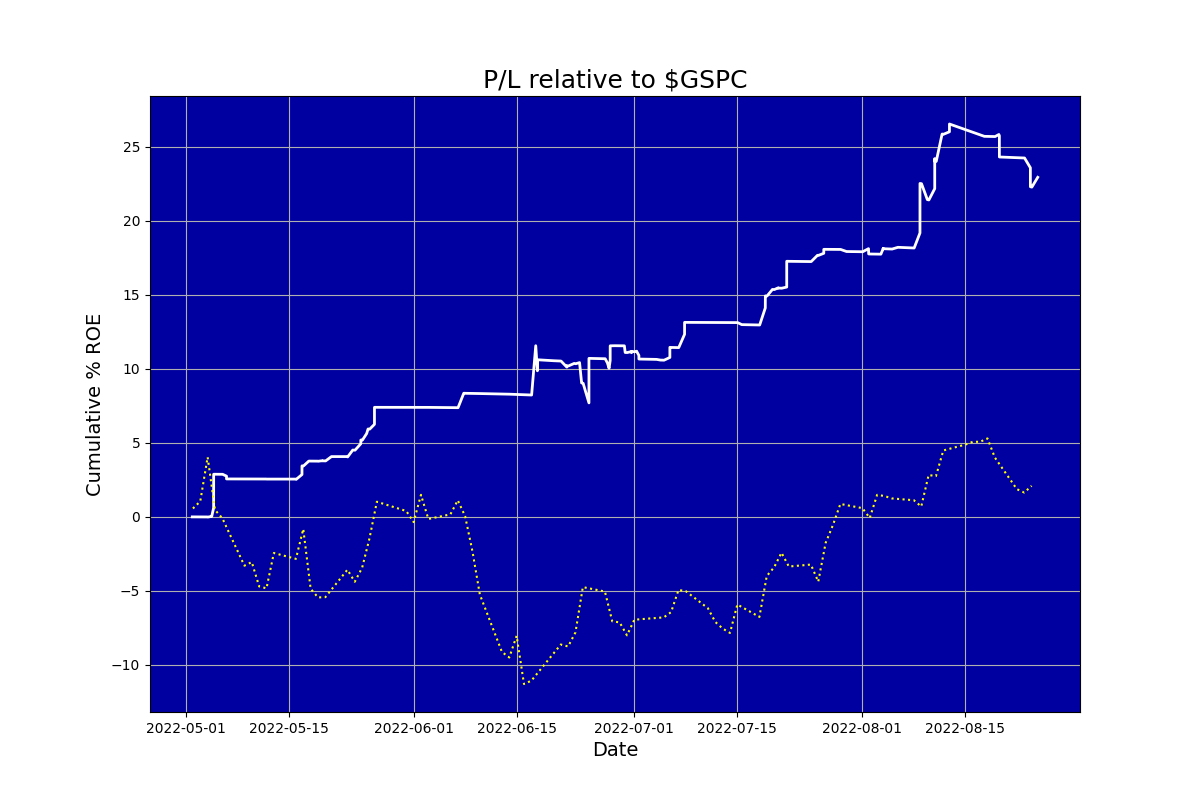
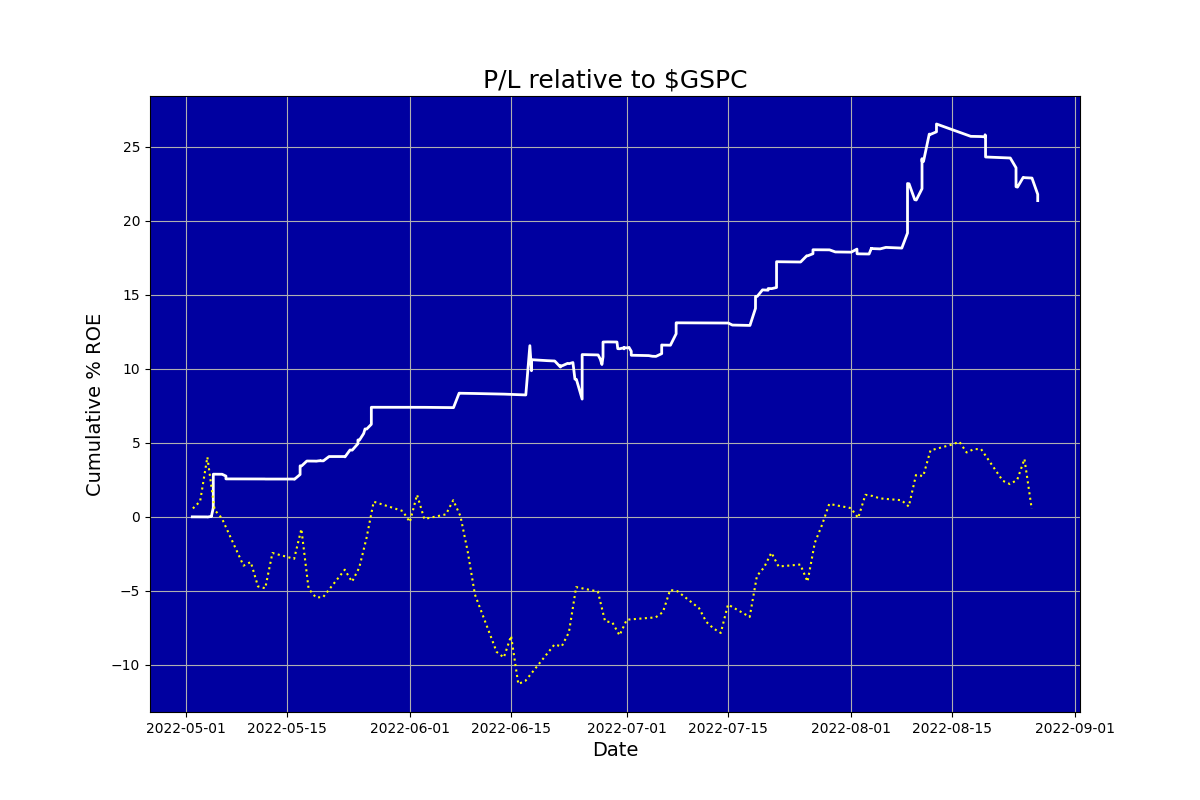
Updated

diff --git a/ig_report.html b/ig_report.html
@@ -1,1 +1,1 @@
-<html><body><center><h1>Auriel (never knowingly overbought)</h1></center><table cols=2><tr><td><img src=ig_pl.png></td><td><table cols=2><tr><td colspan=2><b><br>Snapshot</b></td></tr><tr><td>Last updated:&nbsp;&nbsp;&nbsp;</td><td>2022-08-24 16:01</td></tr><tr><td>Funds:&nbsp;&nbsp;&nbsp;</td><td>14407.98</td></tr><tr><td>Margin:&nbsp;&nbsp;&nbsp;</td><td>0.38</td></tr><tr><td>Cushion:&nbsp;&nbsp;&nbsp;</td><td>-1455.21</td></tr><tr><td>Last closed trade:&nbsp;&nbsp;&nbsp;</td><td>2022-08-24</td></tr><tr><td colspan=2><b><br>Positions</b></td></tr><tr><td>Mean days to new high:&nbsp;&nbsp;&nbsp;</td><td>2.04</td></tr><tr><td colspan=2><b><br>Trades</b></td></tr><tr><td>Num trades:&nbsp;&nbsp;&nbsp;</td><td>96</td></tr><tr><td>Pct winners:&nbsp;&nbsp;&nbsp;</td><td>67.71</td></tr><tr><td>Pct beating benchmark:&nbsp;&nbsp;&nbsp;</td><td>64.21</td></tr><tr><td>Pct profitable months:&nbsp;&nbsp;&nbsp;</td><td>100.00</td></tr><tr><td colspan=2><b><br>Performance</b></td></tr><tr><td>Pct median monthly ROE:&nbsp;&nbsp;&nbsp;</td><td>5.99</td></tr><tr><td>Pct annualised ROE:&nbsp;&nbsp;&nbsp;</td><td>136.31</td></tr><tr><td colspan=2><b><br>Risk</b></td></tr><tr><td>Volatility pct:&nbsp;&nbsp;&nbsp;</td><td>19.10</td></tr><tr><td>Benchmark volatility pct:&nbsp;&nbsp;&nbsp;</td><td>25.03</td></tr><tr><td>Sharpe ratio:&nbsp;&nbsp;&nbsp;</td><td>7.06</td></tr><tr><td>Calmar ratio:&nbsp;&nbsp;&nbsp;</td><td>34.32</td></tr><tr><td>Worst drawdown pct:&nbsp;&nbsp;&nbsp;</td><td>-0.04</td></tr><tr><td>Recovery days from worst drawdown:&nbsp;&nbsp;&nbsp;</td><td>9999.00</td></tr><tr><td>Beat benchmark +ve periods pct:&nbsp;&nbsp;&nbsp;</td><td>0.80</td></tr><tr><td>Beat benchmark -ve periods pct:&nbsp;&nbsp;&nbsp;</td><td>0.99</td></tr><tr><td>Correlation with benchmark:&nbsp;&nbsp;&nbsp;</td><td>0.13</td></tr></table></td></tr></table></body></html>
+<html><body><center><h1>Auriel (never knowingly overbought)</h1></center><table cols=2><tr><td><img src=ig_pl.png></td><td><table cols=2><tr><td colspan=2><b><br>Snapshot</b></td></tr><tr><td>Last updated:&nbsp;&nbsp;&nbsp;</td><td>2022-08-26 16:09</td></tr><tr><td>Funds:&nbsp;&nbsp;&nbsp;</td><td>14175.00</td></tr><tr><td>Margin:&nbsp;&nbsp;&nbsp;</td><td>0.29</td></tr><tr><td>Cushion:&nbsp;&nbsp;&nbsp;</td><td>-1595.00</td></tr><tr><td>Last closed trade:&nbsp;&nbsp;&nbsp;</td><td>2022-08-26</td></tr><tr><td colspan=2><b><br>Positions</b></td></tr><tr><td>Mean days to new high:&nbsp;&nbsp;&nbsp;</td><td>2.21</td></tr><tr><td colspan=2><b><br>Trades</b></td></tr><tr><td>Num trades:&nbsp;&nbsp;&nbsp;</td><td>98</td></tr><tr><td>Pct winners:&nbsp;&nbsp;&nbsp;</td><td>66.33</td></tr><tr><td>Pct beating benchmark:&nbsp;&nbsp;&nbsp;</td><td>62.89</td></tr><tr><td>Pct profitable months:&nbsp;&nbsp;&nbsp;</td><td>100.00</td></tr><tr><td colspan=2><b><br>Performance</b></td></tr><tr><td>Pct median monthly ROE:&nbsp;&nbsp;&nbsp;</td><td>5.40</td></tr><tr><td>Pct annualised ROE:&nbsp;&nbsp;&nbsp;</td><td>124.50</td></tr><tr><td colspan=2><b><br>Risk</b></td></tr><tr><td>Volatility pct:&nbsp;&nbsp;&nbsp;</td><td>19.30</td></tr><tr><td>Benchmark volatility pct:&nbsp;&nbsp;&nbsp;</td><td>25.47</td></tr><tr><td>Sharpe ratio:&nbsp;&nbsp;&nbsp;</td><td>6.37</td></tr><tr><td>Calmar ratio:&nbsp;&nbsp;&nbsp;</td><td>25.46</td></tr><tr><td>Worst drawdown pct:&nbsp;&nbsp;&nbsp;</td><td>-0.05</td></tr><tr><td>Recovery days from worst drawdown:&nbsp;&nbsp;&nbsp;</td><td>9999.00</td></tr><tr><td>Beat benchmark +ve periods pct:&nbsp;&nbsp;&nbsp;</td><td>0.81</td></tr><tr><td>Beat benchmark -ve periods pct:&nbsp;&nbsp;&nbsp;</td><td>0.99</td></tr><tr><td>Correlation with benchmark:&nbsp;&nbsp;&nbsp;</td><td>0.16</td></tr></table></td></tr></table></body></html>
